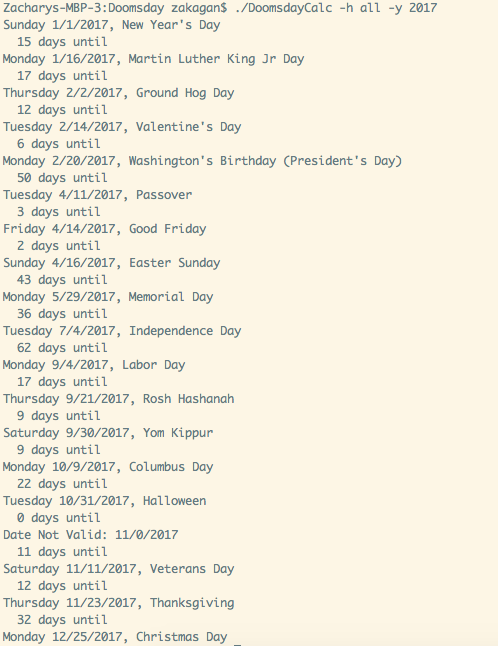
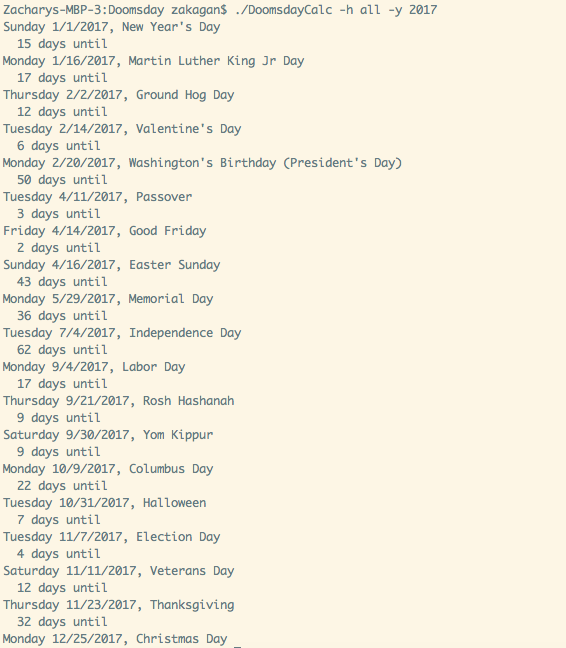
small bug fixes

Changed region(s): [[0.0, 0.0, 0.8735, 1.0], [0.753, 0.2167, 0.8133, 0.2786]]

diff --git a/src/DoomsdayDate.cpp b/src/DoomsdayDate.cpp
@@ -386,7 +386,7 @@ bool DoomsdayDate::SetFirst(int weekday, int month, int year, Holiday significan
 	day = 1;
 	Set_(month, day, year, true, JulianBeforeGregorian);
 	day += weekday - weekday_;	  		
-	if (day < 0) {day += 7;}					//moves dates forward to first of month                
+	if (day <= 0) {day += 7;}					//moves dates forward to first of month                
 
 	Set_(month, day, year, true, JulianBeforeGregorian, significance);
     return true;

diff --git a/README.md b/README.md
@@ -172,7 +172,7 @@ The following Holidays are implemented:
 
     **keyword**: "Halloween" or just "hlw"  
     **occurs**: First Monday in September  
-    **range**: Every year since 1911, when the holiday became commonly celebrated  
+    **range**: Every year since 1911 (when the holiday became commonly celebrated)
     
  17. **Election Day**
  
